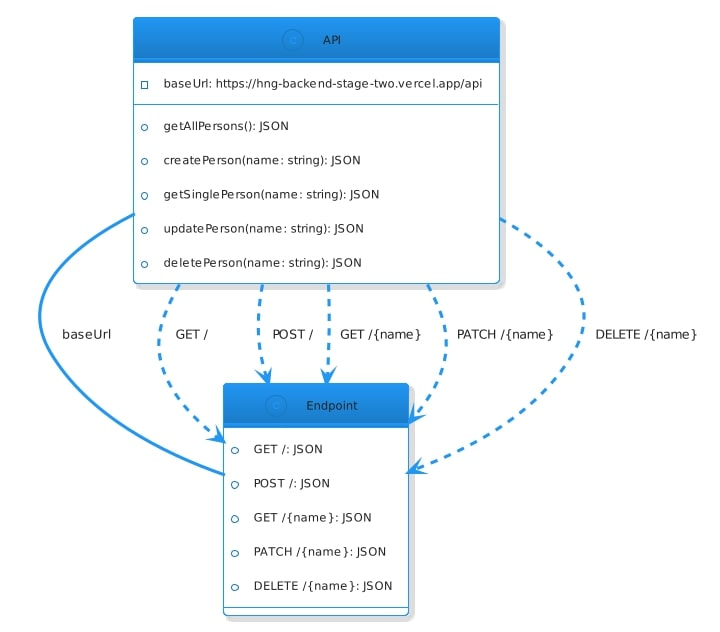
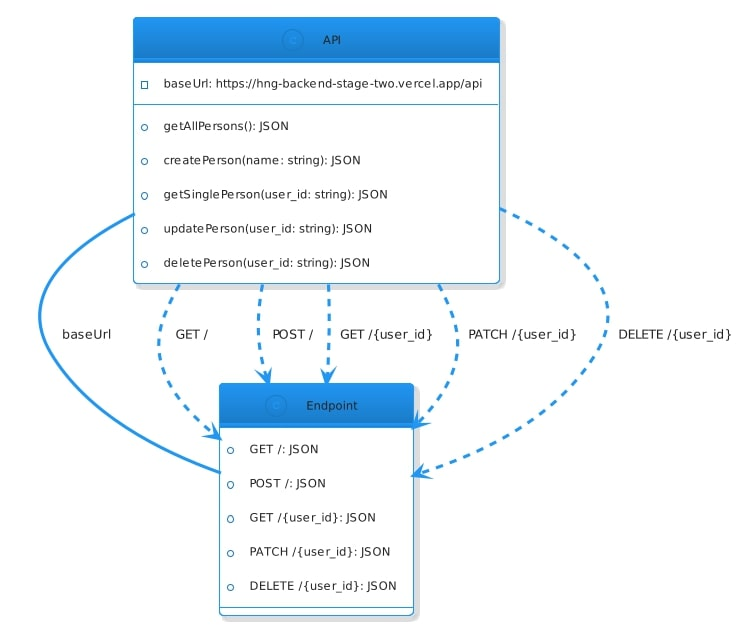
updated endpoints

diff --git a/controllers/personController.js b/controllers/personController.js
@@ -13,9 +13,10 @@ const getAllPersons = async (req, res) => {
 };
 
 const getPerson = async (req, res) => {
-  const person = await Person.findOne({ name: req.params.name });
+  const { id } = req.params;
+  const person = await Person.findOne({ _id: id });
   if (!person) {
-    throw new NotFoundError("No person with this name in the database");
+    throw new NotFoundError(`No user with with ID ${id} in the database`);
   }
   res.status(StatusCodes.OK).json(person);
 };
@@ -39,33 +40,33 @@ const createPerson = async (req, res) => {
 };
 
 const deletePerson = async (req, res) => {
-  const { name } = req.params;
-  const person = await Person.findOneAndDelete({ name });
+  const { id } = req.params;
+  const person = await Person.findOneAndDelete({ _id: id });
   if (!person) {
-    throw new NotFoundError("No person with this name in the database");
+    throw new NotFoundError(`No user with with ID ${id} in the database`);
   }
   res
     .status(StatusCodes.OK)
-    .json({ msg: `${name} has been deleted successfully` });
+    .json({ msg: `User with ID ${id} has been deleted successfully` });
 };
 
 const updatePerson = async (req, res) => {
-  const { name } = req.params;
-  const newName = req.body.name;
+  const { id } = req.params;
+  const { name } = req.body;
   const person = await Person.findOneAndUpdate(
+    { _id: id },
     { name },
-    { name: newName },
     {
       runValidators: true,
       new: true,
     }
   );
   if (!person) {
-    throw new NotFoundError("No person with this name in the database");
+    throw new NotFoundError(`No person with ID ${id} in the database`);
   }
   res
     .status(StatusCodes.OK)
-    .json({ msg: `${name} has been Updated successfully`, person });
+    .json({ msg: `User with ID ${id} has been Updated successfully`, person });
 };
 
 module.exports = {

diff --git a/Routes/personRoute.js b/Routes/personRoute.js
@@ -8,6 +8,6 @@ const {
 } = require("../controllers/personController");
 
 router.route("/").post(createPerson).get(getAllPersons);
-router.route("/:name").get(getPerson).delete(deletePerson).patch(updatePerson);
+router.route("/:id").get(getPerson).delete(deletePerson).patch(updatePerson);
 
 module.exports = router;
